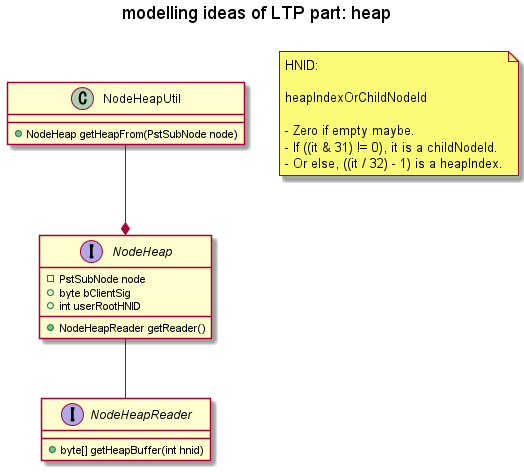
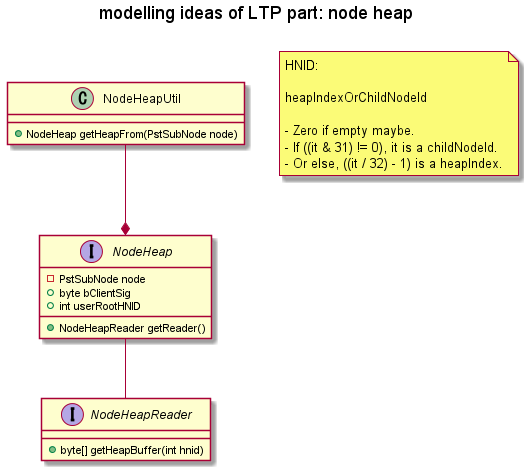
Adding btree heap

Changed region(s): [[0.1832, 0.0, 0.7939, 0.0592]]

diff --git a/README.md b/README.md
@@ -142,10 +142,13 @@ PST is formatted in multi layerd structure.
 
 ![](out/plantuml/base/layers.png)
 
-
-LTP heap
+LTP node heap
 
 ![](out/plantuml/base/ltp_heap.png)
+
+LTP btree heap
+
+![](out/plantuml/base/ltp_btheap.png)
 
 LTP property context
 
